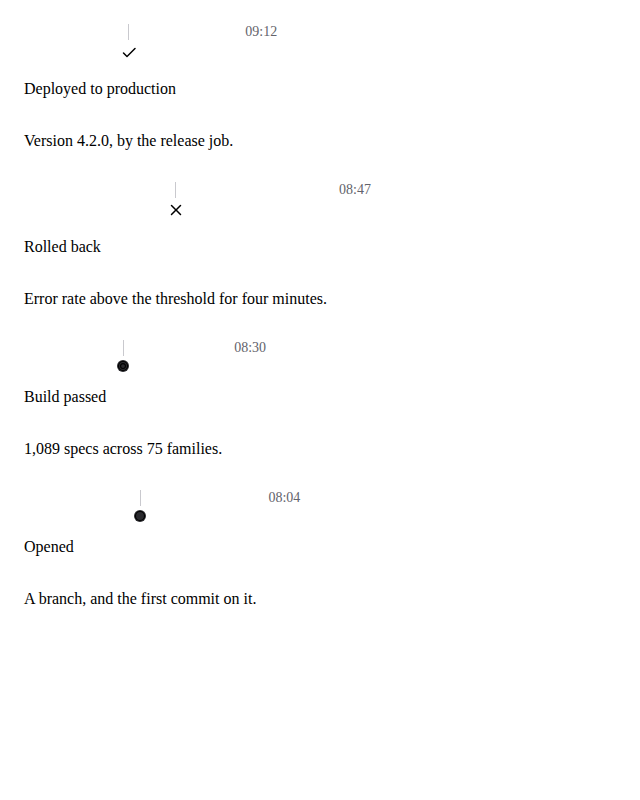
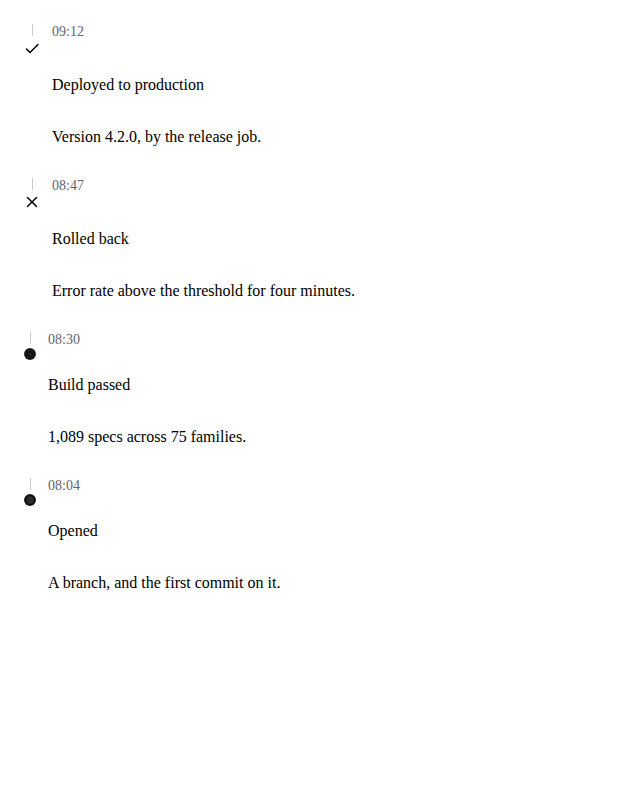
fix(helix/timeline): place the two columns the base example needs
The item renders three children at the top of its shadow root, and the component
says why: the time is a sibling of the content rather than the first thing inside
it, so the two are separate rows and the rail can place its mark against the
second of them rather than a fixed distance from the top of the entry.

Give the host two columns and nothing else and those three flow as rail, time,
content, which puts the content under the rail and the time beside it. That is
what the earlier attempts looked like and why another rule guessed from outside
was never going to fix it. The rail spans `1 / -1` now and the other two are in
column two.

Its rail had also matched the branch that paints a progress groove, so before any
of that it was a wide grey stripe lying across the entry above it.

diff --git a/helix/web/src/timeline/.examples/base.css b/helix/web/src/timeline/.examples/base.css
@@ -67,7 +67,7 @@ helix-base-icon::part(svg) {
 helix-base-timeline-item {
   display: grid;
   gap: 0 0.75rem;
-  grid-template-columns: auto 1fr;
+  grid-template-columns: auto minmax(0, 1fr);
 }
 
 helix-base-timeline-item::part(rail) {
@@ -77,6 +77,8 @@ helix-base-timeline-item::part(rail) {
   display: flex;
   flex-direction: column;
   gap: 0.25rem;
+  grid-column: 1;
+  grid-row: 1 / -1;
   inline-size: auto;
 }
 
@@ -84,17 +86,19 @@ helix-base-timeline-item::part(connector) {
   background-color: var(--_gray-line);
   flex: 1;
   inline-size: 1px;
-  min-block-size: 1rem;
+  min-block-size: 0.75rem;
+}
+
+helix-base-timeline-item::part(time) {
+  color: var(--_gray-muted);
+  font-size: 0.875em;
+  grid-column: 2;
 }
 
 helix-base-timeline-item::part(content) {
   display: flex;
   flex-direction: column;
   gap: 0.125rem;
+  grid-column: 2;
   padding-block-end: 1rem;
-}
-
-helix-base-timeline-item::part(time) {
-  color: var(--_gray-muted);
-  font-size: 0.875em;
 }
